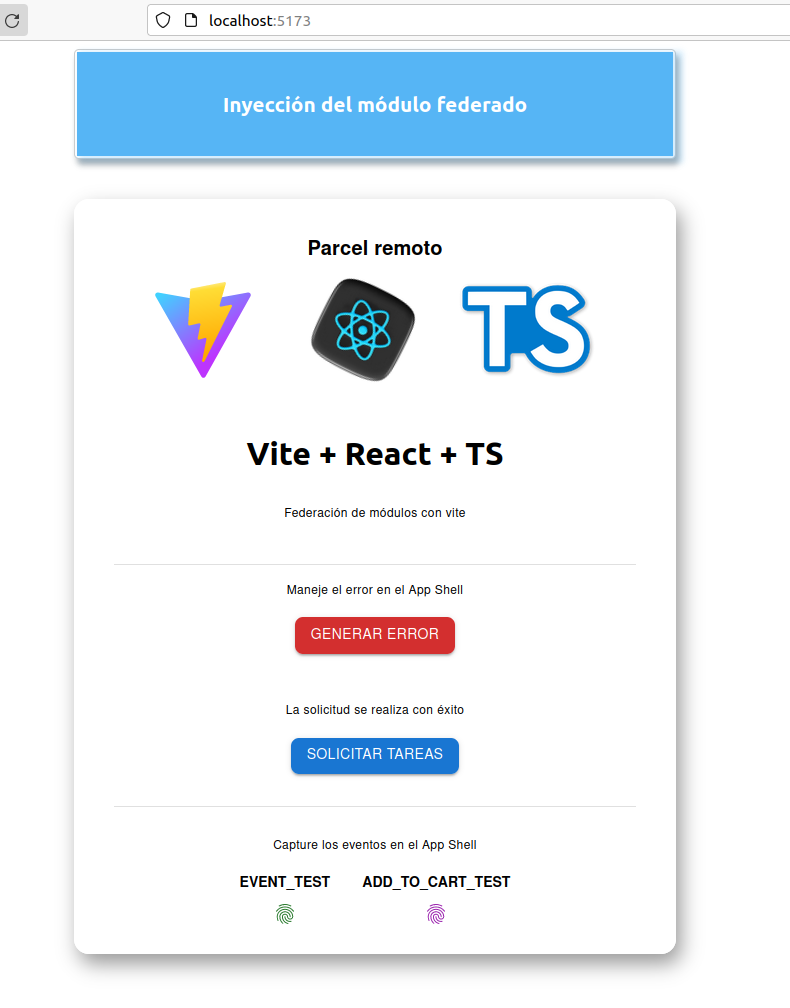
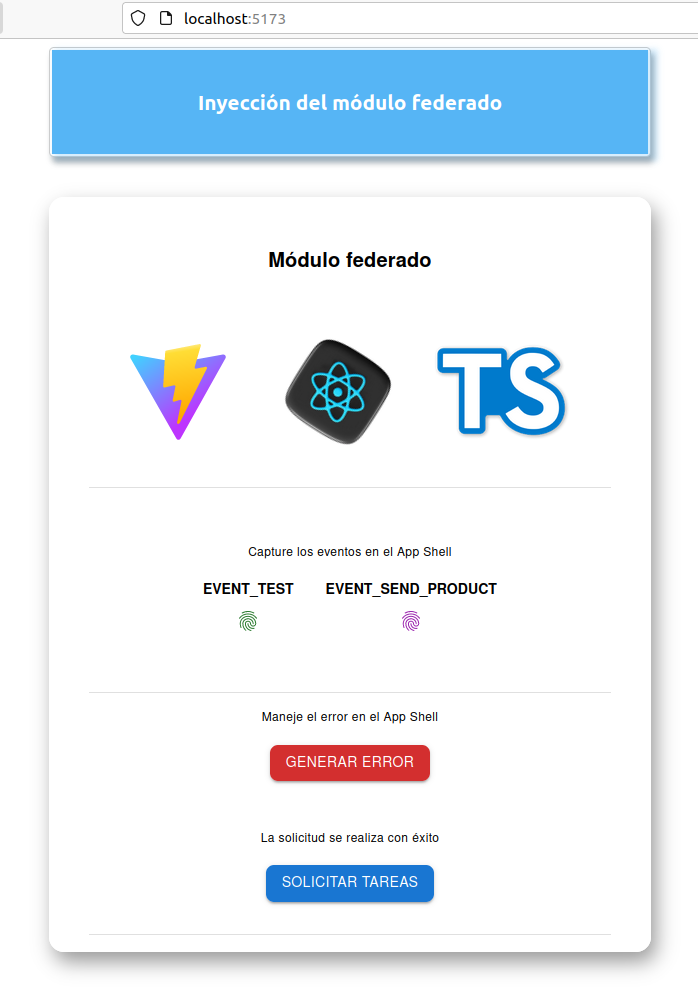
Readme update

diff --git a/src/App.tsx b/src/App.tsx
@@ -17,10 +17,10 @@ function App() {
   }, []);
 
   useEffect(() => {
-    window.addEventListener("ADD_TO_CART_TEST", handleEvent);
+    window.addEventListener("EVENT_SEND_PRODUCT", handleEvent);
 
     return () => {
-      window.removeEventListener("ADD_TO_CART_TEST", handleEvent);
+      window.removeEventListener("EVENT_SEND_PRODUCT", handleEvent);
     };
   }, []);
 
@@ -30,7 +30,7 @@ function App() {
         style={{
           margin: "auto",
           minWidth: "350px",
-          maxWidth: "600px",
+          maxWidth: "750px",
           borderRadius: "5px",
           border: "1px solid rgba(0,0,0, 0.2)",
           boxShadow: "3px 6px 5px rgba(0,0,0, 0.3)",

diff --git a/README.md b/README.md
@@ -67,11 +67,11 @@
 <br/>
 
 <p align="center" style="color: blue; margin-top: 4rem" >
- Captura del evento de de producto
+ Petición de tareas
 </p>
 
 <p align="center" style="margin-top: 3rem">
-    <img alt="App" src="./images/event-product.png" width="600px"/>
+    <img alt="App" src="./images/tareas.png" width="600px"/>
 </p>
 
 ---
